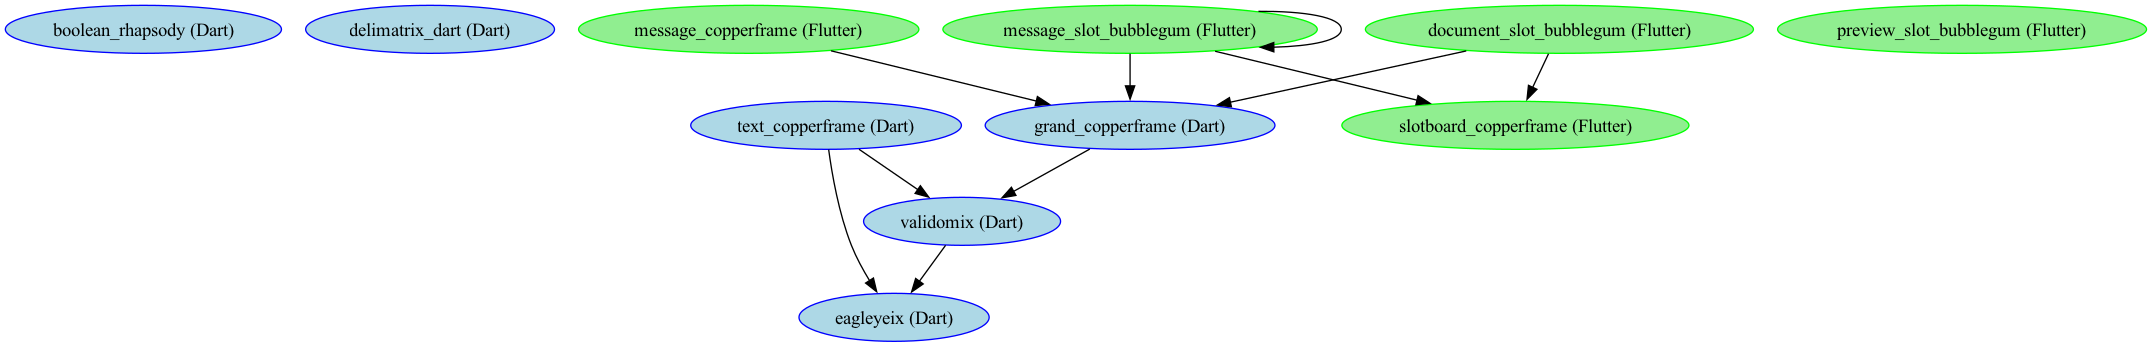
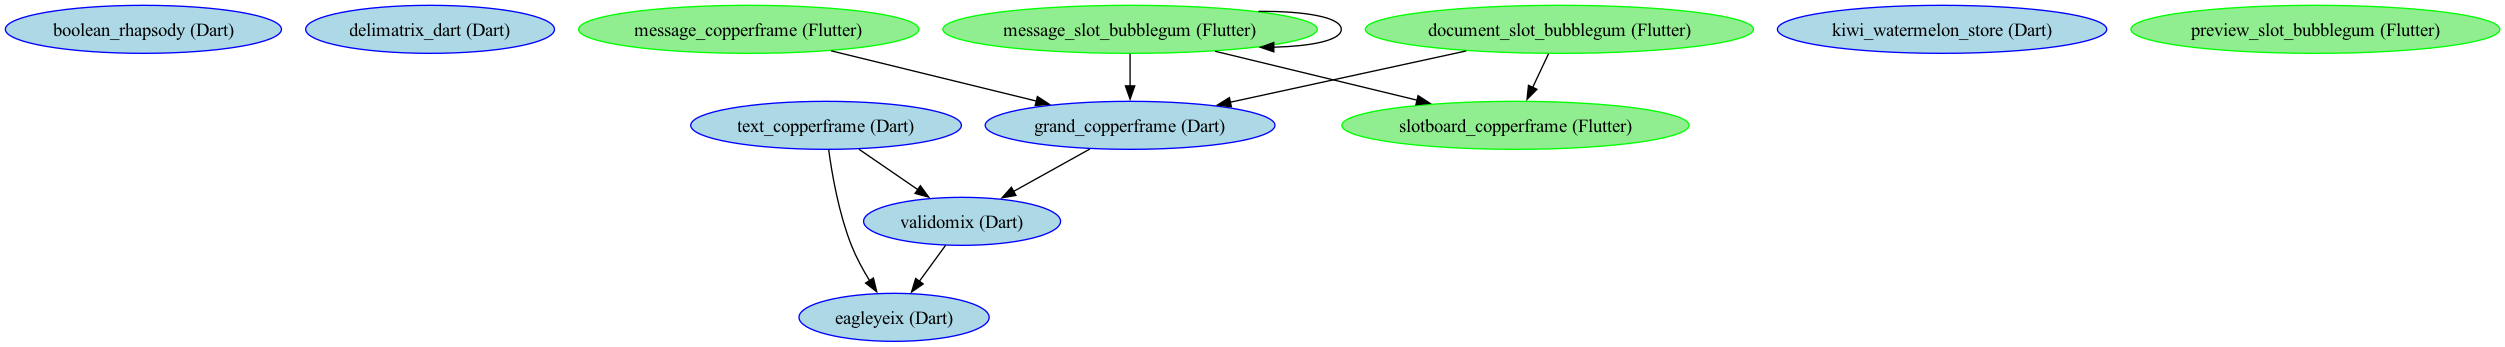
Update overview  on 14 September 2025

diff --git a/NPM-SOFTWARE-DEPENDENCIES.md b/NPM-SOFTWARE-DEPENDENCIES.md
@@ -7,56 +7,56 @@
 | Name                                                                                                 | Description                                                                                                                                                         | Score | Use | Version | Updated      |
 | ---------------------------------------------------------------------------------------------------- | ------------------------------------------------------------------------------------------------------------------------------------------------------------------- | ----- | --- | ------- | ------------ |
 | [@hapi/joi](https://github.com/hapijs/joi#readme)                                                    | Object schema validation                                                                                                                                            |       | 1   | 17.1.1  | > 2 years 🌩 |
-| [@types/hapi\_\_joi](https://github.com/DefinitelyTyped/DefinitelyTyped/tree/master/types/hapi__joi) | TypeScript definitions for @hapi/joi                                                                                                                                |       | 1   | 17.1.15 | < year ⛅     |
-| [@types/jest](https://github.com/DefinitelyTyped/DefinitelyTyped/tree/master/types/jest)             | TypeScript definitions for jest                                                                                                                                     |       | 1   | 30.0.0  | < month 🌞   |
-| [@typescript-eslint/eslint-plugin](https://typescript-eslint.io/packages/eslint-plugin)              | TypeScript plugin for ESLint                                                                                                                                        |       | 1   | 8.34.1  | < month 🌞   |
-| [@typescript-eslint/parser](https://typescript-eslint.io/packages/parser)                            | An ESLint custom parser which leverages TypeScript ESTree                                                                                                           |       | 1   | 8.34.1  | < month 🌞   |
-| [ajv](https://ajv.js.org)                                                                            | Another JSON Schema Validator                                                                                                                                       |       | 1   | 8.17.1  | < month 🌞   |
+| [@types/hapi\_\_joi](https://github.com/DefinitelyTyped/DefinitelyTyped/tree/master/types/hapi__joi) | TypeScript definitions for @hapi/joi                                                                                                                                |       | 1   | 17.1.15 | < quarter 🌤 |
+| [@types/jest](https://github.com/DefinitelyTyped/DefinitelyTyped/tree/master/types/jest)             | TypeScript definitions for jest                                                                                                                                     |       | 1   | 30.0.0  | < quarter 🌤 |
+| [@typescript-eslint/eslint-plugin](https://typescript-eslint.io/packages/eslint-plugin)              | TypeScript plugin for ESLint                                                                                                                                        |       | 1   | 8.43.0  | < month 🌞   |
+| [@typescript-eslint/parser](https://typescript-eslint.io/packages/parser)                            | An ESLint custom parser which leverages TypeScript ESTree                                                                                                           |       | 1   | 8.43.0  | < month 🌞   |
+| [ajv](https://ajv.js.org)                                                                            | Another JSON Schema Validator                                                                                                                                       |       | 1   | 8.17.1  | < year ⛅     |
 | [baldrick-tsconfig-es2021](https://github.com/flarebyte/baldrick-tsconfig-es2021#readme)             | Shared basic Typescript config for ES2021                                                                                                                           |       | 1   | 0.5.0   | > 2 years 🌩 |
 | [bluebird](https://github.com/petkaantonov/bluebird)                                                 | Full featured Promises/A+ implementation with exceptionally good performance                                                                                        |       | 1   | 3.7.2   | < year ⛅     |
-| [chalk](https://github.com/chalk/chalk#readme)                                                       | Terminal string styling done right                                                                                                                                  | ✰✰    | 4   | 5.4.1   | < year ⛅     |
-| [cli-table](https://github.com/Automattic/cli-table#readme)                                          | Pretty unicode tables for the CLI                                                                                                                                   |       | 1   | 0.3.11  | < year ⛅     |
-| [commander](https://github.com/tj/commander.js#readme)                                               | the complete solution for node.js command-line programs                                                                                                             | ✰✰✰   | 9   | 14.0.0  | < quarter 🌤 |
+| [chalk](https://github.com/chalk/chalk#readme)                                                       | Terminal string styling done right                                                                                                                                  | ✰✰    | 4   | 5.6.2   | < month 🌞   |
+| [cli-table](https://github.com/Automattic/cli-table#readme)                                          | Pretty unicode tables for the CLI                                                                                                                                   |       | 1   | 0.3.11  | < quarter 🌤 |
+| [commander](https://github.com/tj/commander.js#readme)                                               | the complete solution for node.js command-line programs                                                                                                             | ✰✰✰   | 9   | 14.0.1  | < month 🌞   |
 | [confiture](https://github.com/flarebyte/confiture)                                                  | Configuration library with validation using json-schema                                                                                                             |       | 1   | 2.1.1   | > 2 years 🌩 |
 | [dazzling-chance](https://github.com/flarebyte/dazzling-chance)                                      | Number generator based on a text input with vague random properties                                                                                                 |       | 1   | 0.1.0   | > 2 years 🌩 |
-| diff                                                                                                 | A JavaScript text diff implementation.                                                                                                                              |       | 1   | 8.0.2   | < month 🌞   |
-| [dot-prop](https://github.com/sindresorhus/dot-prop#readme)                                          | Get, set, or delete a property from a nested object using a dot path                                                                                                | ✰     | 2   | 9.0.0   | < 2 year 🌧  |
-| [enquirer](https://github.com/enquirer/enquirer)                                                     | Stylish, intuitive and user-friendly prompt system. Fast and lightweight enough for small projects, powerful and extensible enough for the most advanced use cases. |       | 1   | 2.4.1   | < 2 year 🌧  |
-| [eslint](https://eslint.org)                                                                         | An AST-based pattern checker for JavaScript.                                                                                                                        |       | 1   | 9.29.0  | < month 🌞   |
-| [eslint-config-prettier](https://github.com/prettier/eslint-config-prettier#readme)                  | Turns off all rules that are unnecessary or might conflict with Prettier.                                                                                           |       | 1   | 10.1.5  | < quarter 🌤 |
-| [eslint-plugin-import](https://github.com/import-js/eslint-plugin-import)                            | Import with sanity.                                                                                                                                                 |       | 1   | 2.32.0  | < month 🌞   |
-| [eslint-plugin-jest](https://github.com/jest-community/eslint-plugin-jest#readme)                    | ESLint rules for Jest                                                                                                                                               |       | 1   | 29.0.1  | < month 🌞   |
-| [eslint-plugin-prettier](https://github.com/prettier/eslint-plugin-prettier#readme)                  | Runs prettier as an eslint rule                                                                                                                                     |       | 1   | 5.5.0   | < month 🌞   |
-| [eslint-plugin-unicorn](https://github.com/sindresorhus/eslint-plugin-unicorn#readme)                | More than 100 powerful ESLint rules                                                                                                                                 |       | 1   | 59.0.1  | < quarter 🌤 |
+| diff                                                                                                 | A JavaScript text diff implementation.                                                                                                                              |       | 1   | 8.0.2   | < year ⛅     |
+| [dot-prop](https://github.com/sindresorhus/dot-prop#readme)                                          | Get, set, or delete a property from a nested object using a dot path                                                                                                | ✰     | 2   | 10.0.0  | < month 🌞   |
+| [enquirer](https://github.com/enquirer/enquirer)                                                     | Stylish, intuitive and user-friendly prompt system. Fast and lightweight enough for small projects, powerful and extensible enough for the most advanced use cases. |       | 1   | 2.4.1   | > 2 years 🌩 |
+| [eslint](https://eslint.org)                                                                         | An AST-based pattern checker for JavaScript.                                                                                                                        |       | 1   | 9.35.0  | < month 🌞   |
+| [eslint-config-prettier](https://github.com/prettier/eslint-config-prettier#readme)                  | Turns off all rules that are unnecessary or might conflict with Prettier.                                                                                           |       | 1   | 10.1.8  | < quarter 🌤 |
+| [eslint-plugin-import](https://github.com/import-js/eslint-plugin-import)                            | Import with sanity.                                                                                                                                                 |       | 1   | 2.32.0  | < quarter 🌤 |
+| [eslint-plugin-jest](https://github.com/jest-community/eslint-plugin-jest#readme)                    | ESLint rules for Jest                                                                                                                                               |       | 1   | 29.0.1  | < quarter 🌤 |
+| [eslint-plugin-prettier](https://github.com/prettier/eslint-plugin-prettier#readme)                  | Runs prettier as an eslint rule                                                                                                                                     |       | 1   | 5.5.4   | < quarter 🌤 |
+| [eslint-plugin-unicorn](https://github.com/sindresorhus/eslint-plugin-unicorn#readme)                | More than 100 powerful ESLint rules                                                                                                                                 |       | 1   | 61.0.2  | < month 🌞   |
 | [execa](https://github.com/sindresorhus/execa#readme)                                                | Process execution for humans                                                                                                                                        | ✰     | 3   | 9.6.0   | < month 🌞   |
 | [faora-kai](https://github.com/flarebyte/faora-kai)                                                  | The Zod helper library, because sometimes you need a little help from a Kryptonian                                                                                  |       | 1   | 0.1.0   | > 2 years 🌩 |
-| [fdir](https://github.com/thecodrr/fdir#readme)                                                      | The fastest directory crawler & globbing alternative to glob, fast-glob, & tiny-glob. Crawls 1m files in < 1s                                                       |       | 1   | 6.4.6   | < month 🌞   |
-| [fs-extra](https://github.com/jprichardson/node-fs-extra)                                            | fs-extra contains methods that aren't included in the vanilla Node.js fs package. Such as recursive mkdir, copy, and remove.                                        | ✰✰    | 4   | 11.3.0  | < year ⛅     |
+| [fdir](https://github.com/thecodrr/fdir#readme)                                                      | The fastest directory crawler & globbing alternative to glob, fast-glob, & tiny-glob. Crawls 1m files in < 1s                                                       |       | 1   | 6.5.0   | < quarter 🌤 |
+| [fs-extra](https://github.com/jprichardson/node-fs-extra)                                            | fs-extra contains methods that aren't included in the vanilla Node.js fs package. Such as recursive mkdir, copy, and remove.                                        | ✰✰    | 4   | 11.3.1  | < quarter 🌤 |
 | [fs-jetpack](https://github.com/szwacz/fs-jetpack)                                                   | Better file system API                                                                                                                                              | ✰✰    | 4   | 5.1.0   | > 2 years 🌩 |
 | [get-stdin](https://github.com/sindresorhus/get-stdin#readme)                                        | Get stdin as a string or buffer                                                                                                                                     |       | 1   | 9.0.0   | > 2 years 🌩 |
 | [grunt-bump](https://github.com/vojtajina/grunt-bump)                                                | Bump package version                                                                                                                                                |       | 1   | 0.8.0   | > 2 years 🌩 |
 | [handlebars](https://www.handlebarsjs.com/)                                                          | Handlebars provides the power necessary to let you build semantic templates effectively with no frustration                                                         | ✰     | 2   | 4.7.8   | < 2 year 🌧  |
 | [is-my-json-valid](https://github.com/mafintosh/is-my-json-valid#readme)                             | A [JSONSchema](https://json-schema.org/) validator that uses code generation to be extremely fast.                                                                  | ✰     | 2   | 2.20.6  | > 2 years 🌩 |
-| [jest](https://jestjs.io/)                                                                           | Delightful JavaScript Testing.                                                                                                                                      |       | 1   | 30.0.2  | < month 🌞   |
-| jest-diff                                                                                            | undefined                                                                                                                                                           | ✰     | 2   | 30.0.2  | < month 🌞   |
+| [jest](https://jestjs.io/)                                                                           | Delightful JavaScript Testing.                                                                                                                                      |       | 1   | 30.1.3  | < month 🌞   |
+| jest-diff                                                                                            | undefined                                                                                                                                                           | ✰     | 2   | 30.1.2  | < month 🌞   |
 | [jest-junit](https://github.com/jest-community/jest-junit#readme)                                    | A jest reporter that generates junit xml files                                                                                                                      |       | 1   | 16.0.0  | > 2 years 🌩 |
-| [joi](https://github.com/hapijs/joi#readme)                                                          | Object schema validation                                                                                                                                            | ✰     | 3   | 17.13.3 | < year ⛅     |
-| [jose](https://github.com/panva/jose)                                                                | JWA, JWS, JWE, JWT, JWK, JWKS for Node.js, Browser, Cloudflare Workers, Deno, Bun, and other Web-interoperable runtimes                                             |       | 1   | 6.0.11  | < month 🌞   |
+| [joi](https://github.com/hapijs/joi#readme)                                                          | Object schema validation                                                                                                                                            | ✰     | 3   | 18.0.1  | < month 🌞   |
+| [jose](https://github.com/panva/jose)                                                                | JWA, JWS, JWE, JWT, JWK, JWKS for Node.js, Browser, Cloudflare Workers, Deno, Bun, and other Web-interoperable runtimes                                             |       | 1   | 6.1.0   | < month 🌞   |
 | [js-beautify](https://beautifier.io/)                                                                | beautifier.io for node                                                                                                                                              |       | 1   | 1.15.4  | < year ⛅     |
 | [json-commander](https://github.com/flarebyte/json-commander#readme)                                 | Commands generator for the update of json documents                                                                                                                 |       | 1   | 1.0.0   | > 2 years 🌩 |
 | [json-mask](https://github.com/nemtsov/json-mask#readme)                                             | Tiny language and engine for selecting specific parts of a JS object, hiding the rest.                                                                              |       | 1   | 2.0.0   | > 2 years 🌩 |
-| [listr2](https://github.com/listr2/listr2#readme)                                                    | Terminal task list reborn! Create beautiful CLI interfaces via easy and logical to implement task lists that feel alive and interactive.                            |       | 1   | 8.3.3   | < quarter 🌤 |
+| [listr2](https://github.com/listr2/listr2#readme)                                                    | Terminal task list reborn! Create beautiful CLI interfaces via easy and logical to implement task lists that feel alive and interactive.                            |       | 1   | 9.0.3   | < month 🌞   |
 | [lodash](https://lodash.com/)                                                                        | Lodash modular utilities.                                                                                                                                           | ✰✰    | 5   | 4.17.21 | < month 🌞   |
 | [lodash.isequal](https://lodash.com/)                                                                | The Lodash method `_.isEqual` exported as a module.                                                                                                                 |       | 1   | 4.5.0   | < year ⛅     |
 | [markdown-table](https://github.com/wooorm/markdown-table#readme)                                    | Generate a markdown (GFM) table                                                                                                                                     | ✰     | 2   | 3.0.4   | < year ⛅     |
-| [marked](https://marked.js.org)                                                                      | A markdown parser built for speed                                                                                                                                   |       | 1   | 15.0.12 | < quarter 🌤 |
+| [marked](https://marked.js.org)                                                                      | A markdown parser built for speed                                                                                                                                   |       | 1   | 16.2.1  | < month 🌞   |
 | [moment](https://momentjs.com)                                                                       | Parse, validate, manipulate, and display dates                                                                                                                      | ✰     | 3   | 2.30.1  | < year ⛅     |
 | [mustache](https://github.com/janl/mustache.js)                                                      | Logic-less {{mustache}} templates with JavaScript                                                                                                                   |       | 1   | 4.2.0   | < year ⛅     |
 | [object-crumble](https://github.com/flarebyte/object-crumble)                                        | Creative ways to cook your object                                                                                                                                   |       | 1   | 0.6.6   | > 2 years 🌩 |
-| [octokit](https://github.com/octokit/octokit.js#readme)                                              | The all-batteries-included GitHub SDK for Browsers, Node.js, and Deno                                                                                               |       | 1   | 5.0.3   | < month 🌞   |
-| [papaparse](https://www.papaparse.com/)                                                              | Fast and powerful CSV parser for the browser that supports web workers and streaming large files. Converts CSV to JSON and JSON to CSV.                             | ✰     | 3   | 5.5.3   | < quarter 🌤 |
-| [pkginfo](https://github.com/indexzero/node-pkginfo#readme)                                          | An easy way to expose properties on a module from a package.json                                                                                                    |       | 1   | 0.4.1   | < 2 year 🌧  |
-| [prettier](https://prettier.io)                                                                      | Prettier is an opinionated code formatter                                                                                                                           |       | 1   | 3.5.3   | < year ⛅     |
+| [octokit](https://github.com/octokit/octokit.js#readme)                                              | The all-batteries-included GitHub SDK for Browsers, Node.js, and Deno                                                                                               |       | 1   | 5.0.3   | < year ⛅     |
+| [papaparse](https://www.papaparse.com/)                                                              | Fast and powerful CSV parser for the browser that supports web workers and streaming large files. Converts CSV to JSON and JSON to CSV.                             | ✰     | 3   | 5.5.3   | < year ⛅     |
+| [pkginfo](https://github.com/indexzero/node-pkginfo#readme)                                          | An easy way to expose properties on a module from a package.json                                                                                                    |       | 1   | 0.4.1   | > 2 years 🌩 |
+| [prettier](https://prettier.io)                                                                      | Prettier is an opinionated code formatter                                                                                                                           |       | 1   | 3.6.2   | < month 🌞   |
 | [prettyjson](http://rafeca.com/prettyjson)                                                           | Package for formatting JSON data in a coloured YAML-style, perfect for CLI output                                                                                   |       | 1   | 1.2.5   | < year ⛅     |
 | [prompts](https://github.com/terkelg/prompts#readme)                                                 | Lightweight, beautiful and user-friendly prompts                                                                                                                    | ✰     | 2   | 2.4.2   | < 2 year 🌧  |
 | [remark-cli](https://remark.js.org)                                                                  | CLI to process markdown with remark                                                                                                                                 |       | 1   | 12.0.1  | < 2 year 🌧  |
@@ -76,13 +76,13 @@
 | [solace](https://github.com/flarebyte/solace)                                                        | Alternative to console log which automatically beautifies the output                                                                                                |       | 1   | 1.2.0   | > 2 years 🌩 |
 | [string](http://stringjs.com)                                                                        | string contains methods that aren't included in the vanilla JavaScript string such as escaping html, decoding html entities, stripping tags, etc.                   | ✰     | 2   | 3.3.3   | > 2 years 🌩 |
 | [swig](https://github.com/paularmstrong/swig)                                                        | A simple, powerful, and extendable templating engine for node.js and browsers, similar to Django, Jinja2, and Twig.                                                 |       | 1   | 1.4.2   | > 2 years 🌩 |
-| [tiny-glob](https://github.com/terkelg/tiny-glob#readme)                                             | Tiny and extremely fast globbing                                                                                                                                    |       | 1   | 0.2.9   | < 2 year 🌧  |
-| [ts-jest](https://kulshekhar.github.io/ts-jest)                                                      | A Jest transformer with source map support that lets you use Jest to test projects written in TypeScript                                                            |       | 1   | 29.4.0  | < month 🌞   |
-| [ts-morph](https://github.com/dsherret/ts-morph#readme)                                              | TypeScript compiler wrapper for static analysis and code manipulation.                                                                                              | ✰     | 2   | 26.0.0  | < quarter 🌤 |
-| [tslib](https://www.typescriptlang.org/)                                                             | Runtime library for TypeScript helper functions                                                                                                                     |       | 1   | 2.8.1   | < month 🌞   |
+| [tiny-glob](https://github.com/terkelg/tiny-glob#readme)                                             | Tiny and extremely fast globbing                                                                                                                                    |       | 1   | 0.2.9   | > 2 years 🌩 |
+| [ts-jest](https://kulshekhar.github.io/ts-jest)                                                      | A Jest transformer with source map support that lets you use Jest to test projects written in TypeScript                                                            |       | 1   | 29.4.1  | < quarter 🌤 |
+| [ts-morph](https://github.com/dsherret/ts-morph#readme)                                              | TypeScript compiler wrapper for static analysis and code manipulation.                                                                                              | ✰     | 2   | 27.0.0  | < month 🌞   |
+| [tslib](https://www.typescriptlang.org/)                                                             | Runtime library for TypeScript helper functions                                                                                                                     |       | 1   | 2.8.1   | < year ⛅     |
 | [vfile-reporter](https://github.com/vfile/vfile-reporter#readme)                                     | vfile utility to create a report for a file                                                                                                                         |       | 1   | 8.1.1   | < 2 year 🌧  |
 | [vfile-reporter-json](https://github.com/vfile/vfile-reporter-json#readme)                           | vfile utility to create a JSON report for a file                                                                                                                    |       | 1   | 4.0.0   | > 2 years 🌩 |
-| [winston](https://github.com/winstonjs/winston#readme)                                               | A logger for just about everything.                                                                                                                                 | ✰     | 2   | 3.17.0  | < year ⛅     |
-| [yaml](https://eemeli.org/yaml/)                                                                     | JavaScript parser and stringifier for YAML                                                                                                                          | ✰✰    | 6   | 2.8.0   | < quarter 🌤 |
-| [zod](https://zod.dev)                                                                               | TypeScript-first schema declaration and validation library with static type inference                                                                               | ✰✰    | 5   | 3.25.67 | < month 🌞   |
-| [zod-to-json-schema](https://github.com/StefanTerdell/zod-to-json-schema#readme)                     | Converts Zod schemas to Json Schemas                                                                                                                                |       | 1   | 3.24.5  | < year ⛅     |
+| [winston](https://github.com/winstonjs/winston#readme)                                               | A logger for just about everything.                                                                                                                                 | ✰     | 2   | 3.17.0  | < month 🌞   |
+| [yaml](https://eemeli.org/yaml/)                                                                     | JavaScript parser and stringifier for YAML                                                                                                                          | ✰✰    | 6   | 2.8.1   | < quarter 🌤 |
+| [zod](https://zod.dev)                                                                               | TypeScript-first schema declaration and validation library with static type inference                                                                               | ✰✰    | 5   | 4.1.8   | < month 🌞   |
+| [zod-to-json-schema](https://github.com/StefanTerdell/zod-to-json-schema#readme)                     | Converts Zod schemas to Json Schemas                                                                                                                                |       | 1   | 3.24.6  | < quarter 🌤 |

diff --git a/DART-SOFTWARE-DEPENDENCIES.md b/DART-SOFTWARE-DEPENDENCIES.md
@@ -1,24 +1,26 @@
 # Dart and Flutter dependencies
+
 > Production Dart and Flutter dependencies ranking based on usage.
+
 ## Graph overview
+
 ![Dart software dependencies graph](dart-software-dependencies.png)
+
 ## Dart production dependencies table
 
-
-| Name | Description | Score | Use | Min Version | Max Version | Latest Version | Updated |
-|------| ------------|-------|-----|-------------|-------------|----------------| --------|
-|eagleyeix|undefined|✰ |2|||undefined|> 2 years 🌩|}
-|validomix|undefined|✰ |2|||undefined|> 2 years 🌩|}
+| Name      | Description | Score | Use | Min Version | Max Version | Latest Version | Updated     |
+| --------- | ----------- | ----- | --- | ----------- | ----------- | -------------- | ----------- |
+| eagleyeix | undefined   | ✰     | 2   |             |             | undefined      | > 2 years 🌩 |
+| validomix | undefined   | ✰     | 2   |             |             | undefined      | > 2 years 🌩 |
 
 ## Flutter production dependencies table
 
-
-| Name | Description | Score | Use | Min Version | Max Version | Latest Version | Updated |
-|------| ------------|-------|-----|-------------|-------------|----------------| --------|
-|cupertino_icons|Default icons asset for Cupertino widgets based on Apple styled icons|✰ |2|^1.0.8|^1.0.8|1.0.8|<  2 year 🌧|}
-|flutter|Visit flutter.io to get started.|✰✰ |6|||0.0.20|> 2 years 🌩|}
-|flutter_localizations|undefined| |1|||undefined|> 2 years 🌩|}
-|grand_copperframe|undefined|✰✰ |4|||undefined|> 2 years 🌩|}
-|intl|Contains code to deal with internationalized/localized messages, date and number formatting and parsing, bi-directional text, and other internationalization issues.| |1|any|any|0.20.2|< year ⛅|}
-|message_slot_bubblegum|undefined| |1|||undefined|> 2 years 🌩|}
-|slotboard_copperframe|undefined|✰ |3|||undefined|> 2 years 🌩|}
+| Name                   | Description                                                                                                                                                          | Score | Use | Min Version | Max Version | Latest Version | Updated     |
+| ---------------------- | -------------------------------------------------------------------------------------------------------------------------------------------------------------------- | ----- | --- | ----------- | ----------- | -------------- | ----------- | 
+| cupertino_icons        | Default icons asset for Cupertino widgets based on Apple styled icons                                                                                                | ✰     | 2   | ^1.0.8      | ^1.0.8      | 1.0.8          | < 2 year 🌧  |
+| flutter                | Visit flutter.io to get started.                                                                                                                                     | ✰✰    | 6   |             |             | 0.0.20         | > 2 years 🌩 |
+| flutter_localizations  | undefined                                                                                                                                                            |       | 1   |             |             | undefined      | > 2 years 🌩 |
+| grand_copperframe      | undefined                                                                                                                                                            | ✰✰    | 4   |             |             | undefined      | > 2 years 🌩 |
+| intl                   | Contains code to deal with internationalized/localized messages, date and number formatting and parsing, bi-directional text, and other internationalization issues. |       | 1   | any         | any         | 0.20.2         | < year ⛅   | }   |
+| message_slot_bubblegum | undefined                                                                                                                                                            |       | 1   |             |             | undefined      | > 2 years 🌩 |
+| slotboard_copperframe  | undefined                                                                                                                                                            | ✰     | 3   |             |             | undefined      | > 2 years 🌩 | 

diff --git a/README.md b/README.md
@@ -5,7 +5,7 @@
 -   [Software health](SOFTWARE-HEALTH.md)
 -   [Software timeline](./SOFTWARE-TIMELINE.md)
 -   [NPM Software dependencies](./NPM-SOFTWARE-DEPENDENCIES.md)
--   [Dart Software dependencies](./DART-SOFTWARE-DEPENDENCIES.md)
+-   [Other Software dependencies](./OTHER-SOFTWARE-DEPENDENCIES.md)
 
 ## Typescript/Javascript libraries
 
@@ -53,14 +53,15 @@
 
 ## Dart libraries
 
-| Name                                                                 | Description                                                                  |
-| -------------------------------------------------------------------- | ---------------------------------------------------------------------------- |
-| [boolean\_rhapsody](https://github.com/flarebyte/boolean_rhapsody)   | Tune into the truth with Boolean Rhapsody in Dart                            |
-| [delimatrix\_dart](https://github.com/flarebyte/delimatrix_dart)     | Delimatrix Dart transforms strings to objects and back with a touch of magic |
-| [eagleyeix](https://github.com/flarebyte/eagleyeix)                  | Eagleyeix the Dart library for sharper observations and smarter reactions    |
-| [grand\_copperframe](https://github.com/flarebyte/grand_copperframe) | The higher level data model for copperframe                                  |
-| [text\_copperframe](https://github.com/flarebyte/text_copperframe)   | The versatile text field for every design                                    |
-| [validomix](https://github.com/flarebyte/validomix)                  | From Strings to Objects Validomix validates all                              |
+| Name                                                                          | Description                                                                  |
+| ----------------------------------------------------------------------------- | ---------------------------------------------------------------------------- |
+| [boolean\_rhapsody](https://github.com/flarebyte/boolean_rhapsody)            | Tune into the truth with Boolean Rhapsody in Dart                            |
+| [delimatrix\_dart](https://github.com/flarebyte/delimatrix_dart)              | Delimatrix Dart transforms strings to objects and back with a touch of magic |
+| [eagleyeix](https://github.com/flarebyte/eagleyeix)                           | Eagleyeix the Dart library for sharper observations and smarter reactions    |
+| [grand\_copperframe](https://github.com/flarebyte/grand_copperframe)          | The higher level data model for copperframe                                  |
+| [kiwi\_watermelon\_store](https://github.com/flarebyte/kiwi_watermelon_store) | Dig into your data with our fruity key-value store                           |
+| [text\_copperframe](https://github.com/flarebyte/text_copperframe)            | The versatile text field for every design                                    |
+| [validomix](https://github.com/flarebyte/validomix)                           | From Strings to Objects Validomix validates all                              |
 
 ## Go CLI
 
